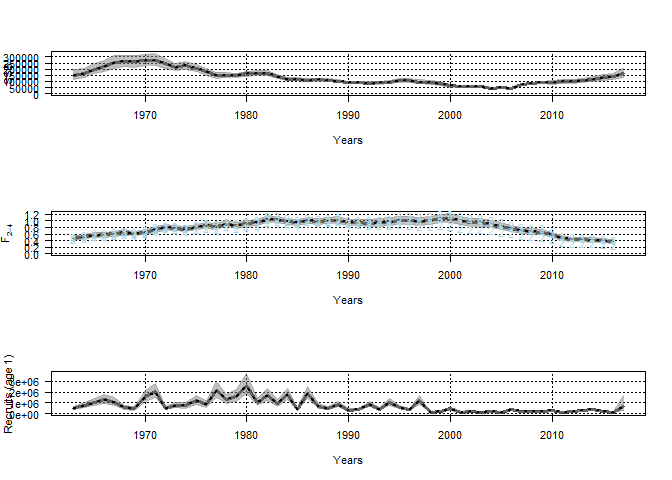
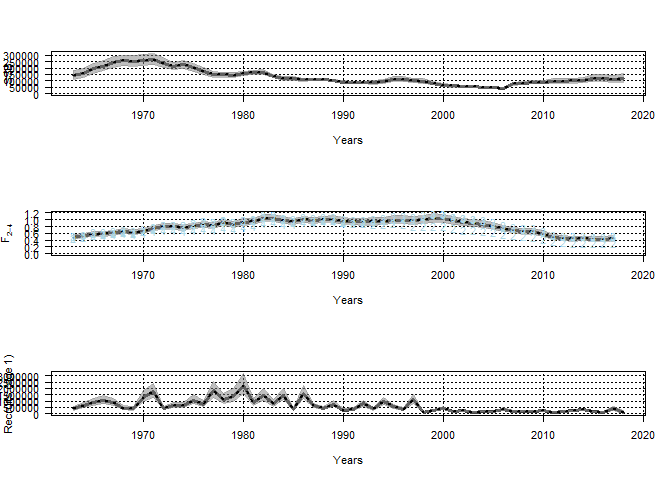
updated readme and added North Sea whiting as another example stock

diff --git a/readme.md b/readme.md
@@ -34,7 +34,9 @@ library(FLfse)
 
     ## Loading required package: lattice
 
-    ## FLCore (Version 2.6.4.9002, packaged: Wed Jan 10 11:08:21 2018)
+    ## FLCore (Version 2.6.5, packaged: 2017-09-18 09:08:34 UTC)
+
+    ## Loading required package: foreach
 
 The package includes example data for some stocks, see
 
@@ -53,11 +55,10 @@ SAM
 Fit SAM to North Sea cod data, with default parametrizations:
 
 ``` r
-library(stockassessment)
 fit <- FLR_SAM(stk = cod4_stk, idx = cod4_idx)
 ```
 
-use the SAM assessment configuration as used by ICES WGNSSK 2017:
+use the SAM assessment configuration as used by ICES WGNSSK 2018:
 
 ``` r
 ### fit SAM model
@@ -76,61 +77,62 @@ summary(fit)
 ```
 
     ##      R(age 1)     Low    High    SSB    Low   High Fbar(2-4)   Low  High
-    ## 1963   483443  349623  668482 152567 117217 198578     0.476 0.410 0.551
-    ## 1964   788652  571393 1088517 164117 128658 209349     0.515 0.451 0.589
-    ## 1965  1053740  766491 1448636 200160 161989 247327     0.565 0.495 0.645
-    ## 1966  1278017  930659 1755022 222222 180955 272900     0.572 0.503 0.649
-    ## 1967  1073869  781741 1475160 251943 205479 308913     0.607 0.537 0.687
-    ## 1968   537651  390601  740061 263057 221446 312487     0.642 0.568 0.727
-    ## 1969   470143  339405  651240 259170 215989 310984     0.613 0.544 0.691
-    ## 1970  1571594 1142538 2161775 270317 226557 322530     0.651 0.580 0.730
-    ## 1971  2051908 1486529 2832320 274633 230563 327128     0.735 0.658 0.821
-    ## 1972   504948  365444  697706 244037 204806 290783     0.794 0.711 0.887
-    ## 1973   740991  536612 1023213 215006 186651 247669     0.780 0.699 0.871
-    ## 1974   724784  523989 1002525 230334 199868 265444     0.749 0.671 0.836
-    ## 1975  1245376  893350 1736117 207745 178734 241465     0.804 0.723 0.894
-    ## 1976   860305  612942 1207495 177134 150304 208754     0.858 0.770 0.956
-    ## 1977  2114847 1515546 2951132 149959 127657 176158     0.821 0.737 0.913
-    ## 1978  1299703  928115 1820064 149402 131578 169641     0.903 0.813 1.002
-    ## 1979  1639351 1174554 2288079 147508 131037 166050     0.850 0.766 0.944
-    ## 1980  2654566 1893368 3721792 161008 143929 180113     0.923 0.835 1.021
-    ## 1981  1042618  745798 1457569 168798 152169 187244     0.940 0.852 1.037
-    ## 1982  1719917 1245935 2374213 168211 151002 187382     1.046 0.949 1.152
-    ## 1983   944190  694886 1282936 137680 123137 153939     1.043 0.948 1.147
-    ## 1984  1741468 1283866 2362171 119779 106803 134331     0.981 0.892 1.080
-    ## 1985   416072  301695  573810 118501 105594 132986     0.947 0.860 1.044
-    ## 1986  1898270 1402201 2569839 109246  98283 121432     0.998 0.908 1.096
-    ## 1987   713573  528742  963015 113010 101469 125864     0.982 0.893 1.080
-    ## 1988   484502  358453  654876 111254 101400 122064     1.001 0.911 1.100
-    ## 1989   850878  626499 1155619 103128  93492 113758     1.018 0.925 1.119
-    ## 1990   328235  243663  442161  92235  83195 102257     0.950 0.860 1.049
-    ## 1991   376409  280177  505694  89892  80390 100517     0.941 0.850 1.041
-    ## 1992   877787  653553 1178957  85849  76593  96223     0.933 0.837 1.040
-    ## 1993   427330  321276  568392  88293  75283 103550     0.945 0.838 1.066
-    ## 1994  1047219  775401 1414323  93896  79525 110864     0.962 0.852 1.087
-    ## 1995   599021  446440  803749 106384  90181 125497     1.003 0.887 1.133
-    ## 1996   379340  284534  505736 106154  89926 125310     1.007 0.891 1.138
-    ## 1997  1206223  881752 1650094  95462  81286 112110     0.982 0.871 1.107
-    ## 1998   120129   89115  161937  91621  77704 108031     1.012 0.899 1.140
-    ## 1999   246280  185184  327535  82664  69540  98266     1.071 0.950 1.208
-    ## 2000   452056  339827  601349  64157  54222  75914     1.072 0.950 1.210
-    ## 2001   161184  120772  215117  60468  51385  71158     1.001 0.888 1.129
-    ## 2002   246401  185080  328039  55492  47179  65271     0.953 0.842 1.078
-    ## 2003   118414   88638  158192  57848  49200  68016     0.941 0.831 1.067
-    ## 2004   200788  152467  264424  45947  39112  53977     0.898 0.791 1.020
-    ## 2005   152815  115066  202948  48627  42101  56164     0.835 0.731 0.954
-    ## 2006   359204  274852  469443  43569  38423  49405     0.754 0.674 0.845
-    ## 2007   168263  129251  219050  75911  67491  85380     0.699 0.622 0.786
-    ## 2008   194484  149128  253633  82229  73350  92183     0.666 0.588 0.754
-    ## 2009   189357  145217  246914  90340  79825 102240     0.655 0.575 0.747
-    ## 2010   293052  223500  384249  90510  78377 104522     0.572 0.496 0.661
-    ## 2011   143013  109359  187024  99811  84189 118331     0.472 0.404 0.551
-    ## 2012   200454  153835  261200  98341  81970 117981     0.432 0.368 0.506
-    ## 2013   264161  202396  344775 106760  89048 127994     0.418 0.358 0.489
-    ## 2014   378793  289113  496291 114931  96202 137306     0.413 0.356 0.480
-    ## 2015   184046  138163  245165 133040 110493 160187     0.388 0.333 0.453
-    ## 2016   133910   93055  192702 138543 114621 167457     0.354 0.298 0.421
-    ## 2017   685336  280523 1674324 165948 131373 209622     0.354 0.278 0.450
+    ## 1963   398864  289535  549476 145056 114396 183934     0.490 0.425 0.564
+    ## 1964   651351  473524  895960 157003 126165 195380     0.528 0.465 0.601
+    ## 1965   874233  637821 1198275 192537 159332 232663     0.579 0.511 0.657
+    ## 1966  1062544  776067 1454771 213818 177765 257183     0.587 0.520 0.662
+    ## 1967   890549  650148 1219843 242898 202125 291894     0.620 0.552 0.697
+    ## 1968   448728  326969  615830 255832 219047 298795     0.656 0.583 0.738
+    ## 1969   392556  284087  542441 251522 213202 296728     0.627 0.558 0.703
+    ## 1970  1321591  962787 1814110 261751 222799 307513     0.665 0.596 0.743
+    ## 1971  1734814 1258515 2391374 266191 226760 312478     0.747 0.671 0.831
+    ## 1972   428894  310617  592209 237657 202254 279256     0.803 0.721 0.894
+    ## 1973   635387  460324  877028 210703 185078 239875     0.794 0.714 0.883
+    ## 1974   631387  456634  873017 225799 197922 257601     0.763 0.686 0.849
+    ## 1975  1085420  778290 1513751 203488 176897 234076     0.815 0.735 0.904
+    ## 1976   752472  535390 1057572 173152 148538 201844     0.867 0.780 0.963
+    ## 1977  1832441 1312566 2558226 146146 125714 169898     0.829 0.747 0.920
+    ## 1978  1121065  799291 1572378 145892 129326 164581     0.907 0.820 1.005
+    ## 1979  1400592 1002243 1957266 145125 129715 162367     0.860 0.778 0.952
+    ## 1980  2261414 1609560 3177261 158705 142629 176594     0.930 0.843 1.025
+    ## 1981   876555  625986 1227423 167149 151389 184549     0.948 0.862 1.043
+    ## 1982  1439757 1038977 1995138 167389 150999 185559     1.047 0.953 1.151
+    ## 1983   800367  587331 1090675 136979 123166 152341     1.046 0.953 1.149
+    ## 1984  1481585 1088119 2017329 119012 106746 132688     0.988 0.900 1.084
+    ## 1985   358913  260702  494121 117385 105134 131064     0.955 0.869 1.049
+    ## 1986  1625467 1197681 2206050 108388  98046 119821     1.001 0.914 1.098
+    ## 1987   617457  456733  834739 110237  99353 122313     0.984 0.897 1.079
+    ## 1988   426224  314860  576976 110178 100818 120407     1.005 0.917 1.101
+    ## 1989   745534  548269 1013774 101541  92366 111628     1.019 0.928 1.118
+    ## 1990   295322  218878  398465  89913  81318  99416     0.955 0.867 1.052
+    ## 1991   339399  252176  456792  88668  79517  98872     0.942 0.853 1.041
+    ## 1992   792194  588326 1066706  85350  76304  95469     0.936 0.841 1.041
+    ## 1993   394504  295530  526625  88375  75168 103903     0.944 0.842 1.059
+    ## 1994   955384  703812 1296879  95545  80601 113260     0.958 0.853 1.076
+    ## 1995   547278  406514  736786 110842  93376 131576     0.992 0.883 1.116
+    ## 1996   351284  262552  470004 110348  93005 130925     0.991 0.881 1.114
+    ## 1997  1089999  795354 1493796  99750  84553 117677     0.975 0.869 1.093
+    ## 1998   111936   82845  151243  96772  81382 115072     1.001 0.893 1.122
+    ## 1999   229672  172285  306175  82354  68841  98519     1.044 0.930 1.172
+    ## 2000   422524  317091  563014  64321  54088  76489     1.040 0.926 1.168
+    ## 2001   154024  115180  205968  61256  51786  72457     0.976 0.869 1.095
+    ## 2002   233307  175304  310502  55558  46982  65700     0.924 0.820 1.042
+    ## 2003   115009   85932  153924  56871  48072  67281     0.905 0.801 1.021
+    ## 2004   196468  149532  258136  45670  38670  53936     0.859 0.759 0.972
+    ## 2005   154259  115848  205407  48389  41744  56091     0.799 0.702 0.909
+    ## 2006   359929  275636  469998  44507  39031  50752     0.735 0.656 0.823
+    ## 2007   168870  129567  220096  76643  67842  86586     0.689 0.612 0.775
+    ## 2008   190204  145843  248057  83653  74197  94314     0.658 0.580 0.746
+    ## 2009   183318  140233  239642  89933  78842 102583     0.650 0.569 0.743
+    ## 2010   274919  209519  360733  88828  75989 103836     0.578 0.498 0.670
+    ## 2011   132904  101506  174013  96198  79729 116068     0.485 0.412 0.571
+    ## 2012   179434  137538  234092  93960  76751 115029     0.450 0.380 0.534
+    ## 2013   226194  173181  295435  99494  81167 121960     0.442 0.375 0.521
+    ## 2014   317568  242921  415153 105714  86598 129050     0.445 0.380 0.520
+    ## 2015   155316  118799  203058 119893  97172 147926     0.433 0.371 0.506
+    ## 2016   109912   82134  147083 119699  97197 147411     0.423 0.359 0.498
+    ## 2017   385593  259272  573460 113502  90267 142718     0.444 0.373 0.528
+    ## 2018    97383   40347  235049 118387  90333 155154     0.446 0.353 0.563
 
 ``` r
 ### plot model
@@ -147,7 +149,7 @@ catchplot(fit)
 ![](readme_files/figure-markdown_github/unnamed-chunk-3-2.png) The resulting "sam" object can then be converted into an FLStock object:
 
 ``` r
-cod4 <- FLfse:::sam2FLStock(fit, uncertainty = TRUE)
+cod4 <- SAM2FLStock(fit)
 ### plot with ggplotFL
 library(ggplotFL)
 ```
@@ -240,7 +242,7 @@ library(spict)
 
     ## Loading required package: TMB
 
-    ## Welcome to spict_v1.2.1@c4520a3a3ae94f1909fa13ef9bd02f35b3649346
+    ## Welcome to spict_v1.2.2@ee444581c9eb01c8514da9c2405f6d224ea92deb
 
     ## 
     ## Attaching package: 'spict'
